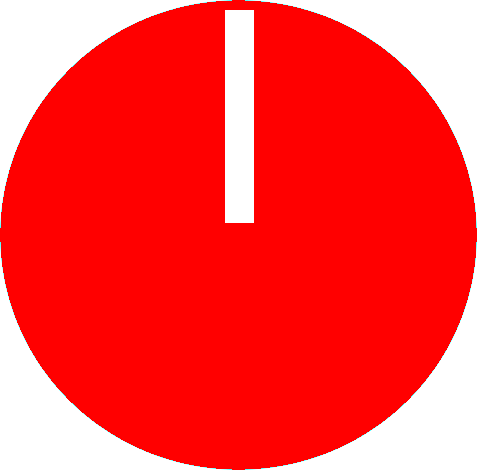
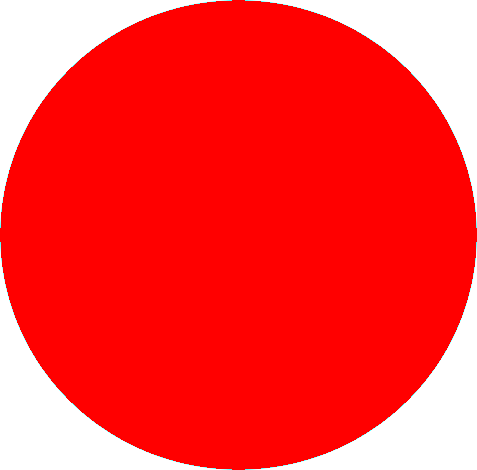
Bouclier réparé

Changed region(s): [[0.4696, 0.0, 0.5577, 0.4766]]

diff --git a/src/Game/Entities/Character.hpp b/src/Game/Entities/Character.hpp
@@ -12,8 +12,15 @@ private:
 	
 	sf::Texture sh;
 	sf::Texture ch;
-	sf::Sprite shield;
-	sf::Sprite charac;
+	//sf::Sprite shield;
+	//sf::Sprite charac;
+	//largeur charac = 477
+	//largeur shield = 223
+	//hauteur shield = 51
+	sf::CircleShape hitbox;
+	sf::CircleShape charac;
+	sf::RectangleShape shield;
+
 	bool leftFlag = false;
 	bool rightFlag = false;
 
